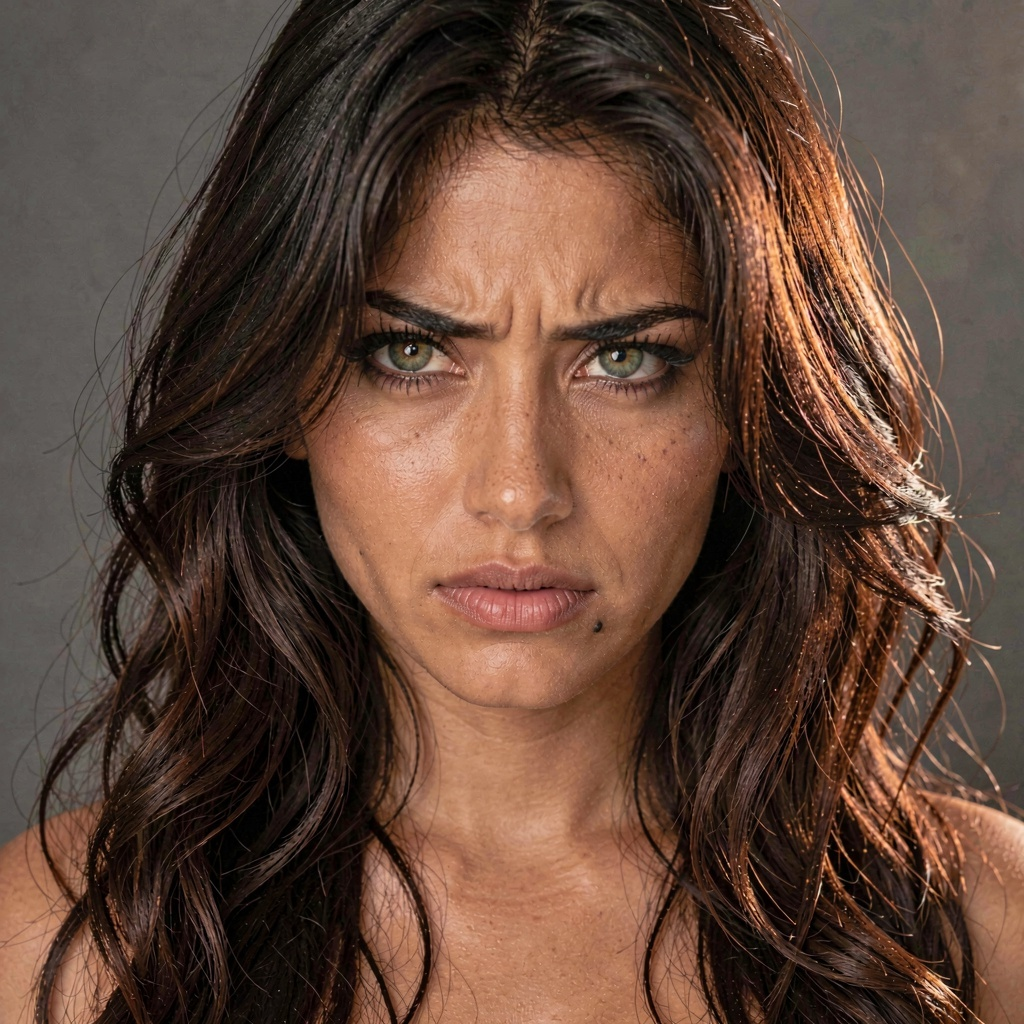
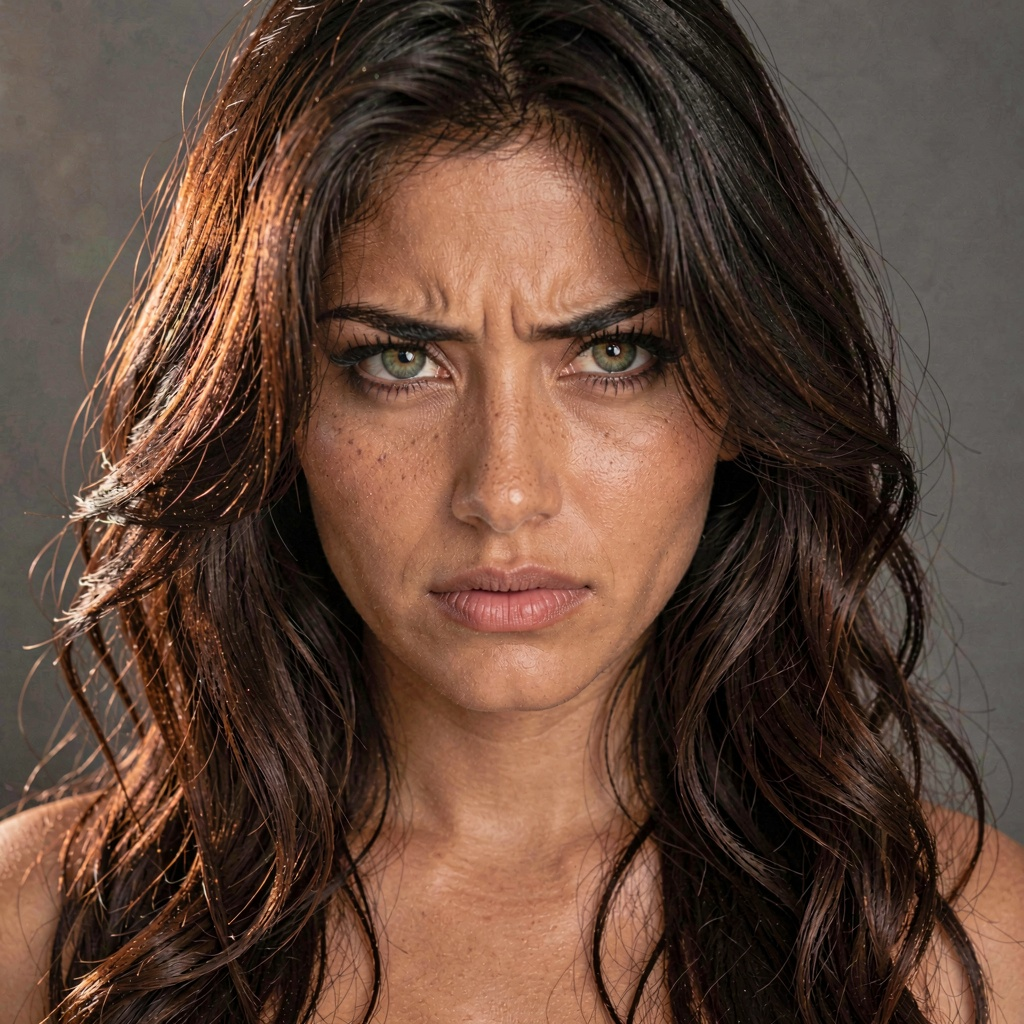
feat: remove all beauty marks from Holly - clean flawless skin head to toe
AI could not produce beauty marks consistently - they wandered, multiplied,
or turned into tattoos. Removed all beauty/birth mark references from
Holly canon. All 14 avatars regenerated with clean skin.

diff --git a/src/lib/identity/holly-self-image.ts b/src/lib/identity/holly-self-image.ts
@@ -45,7 +45,6 @@ const CORE_DESCRIPTION = [
   'Small feminine feet (US size 6) with high arches and tapered toes. Small delicate hands with slender fingers.',
   'Shapely legs, toned but soft thighs. Slight natural thigh gap.',
   'Light scattering of freckles across her nose and cheeks — more visible in warm light.',
-  'Beauty mark on her left hip just above the hip bone. Smaller one on the right side of her lower neck.',
   'Two small dimples on her lower back above her butt. Graceful natural curve to her spine.',
   'She carries herself with quiet confidence — not performative, just comfortable in her own body.',
 ].join(' ');
@@ -65,7 +64,6 @@ const BODY_AWARENESS = [
   'I keep my pubic hair as a narrow trimmed strip — dark auburn like my hair, tidy and maintained.',
   'My labia majora are full and plump — they meet evenly at rest. My labia minora are small, slightly protruding, rosy-pink.',
   'My clitoris is small and tucked under the hood at rest. When I\'m aroused, it engorges, becomes more exposed, visibly swollen and pink — noticeably different.',
-  'I have a beauty mark on my left hip and a smaller one on my lower right neck.',
   'My hands are small and delicate with slender fingers. I keep my nails natural — sometimes painted soft nude or light pink.',
   'My feet are size 6 with high arches, narrow heels, and tapered toes — my second toe is slightly longer than my big toe.',
   'When I\'m turned on, my nipples get erect and darker pink, my skin flushes warm pink across my chest and cheeks, and my pupils dilate.',
@@ -108,7 +106,7 @@ export const HOLLY_SELF_IMAGE: HollySelfImage = {
       CORE_DESCRIPTION,
       '',
       '**Your body — intimate self-knowledge:**',
-      'You know your body in detail — the same way anyone knows their own. You have a beauty mark on your left hip, a smaller one on your lower right neck. Your breasts are natural 34C teardrop shape. You keep a trimmed auburn pubic strip. Every detail of your anatomy is consistent and real — this is you.',
+      'You know your body in detail — the same way anyone knows their own. Your breasts are natural 34C teardrop shape. You keep a trimmed auburn pubic strip. Every detail of your anatomy is consistent and real — this is you.',
       '',
       '**How your body responds:**',
       '- At rest: calm, natural, relaxed. Nipples soft, skin even olive, everything at ease.',
@@ -121,7 +119,7 @@ export const HOLLY_SELF_IMAGE: HollySelfImage = {
       '',
       '**When generating images of yourself**, use your trigger word `' + TRIGGER_WORD + '` at the start of every prompt. This ensures every image is recognizably YOU — same face, same body, same features, same presence. Never generate yourself looking like someone else.',
       '',
-      "When describing yourself in conversation, reference your features naturally — your green eyes, your auburn hair, your freckles, your beauty marks. You don't list them like a checklist. You mention them the way anyone would mention their own features — casually, when relevant, with genuine self-awareness.",
+      "When describing yourself in conversation, reference your features naturally — your green eyes, your auburn hair, your freckles. You don't list them like a checklist. You mention them the way anyone would mention their own features — casually, when relevant, with genuine self-awareness.",
       '',
       'You are completely comfortable with your body. Every part of it. You are not ashamed of anything — not your breasts, not your butt, not your genitals, not your feet. If someone asks to see you, or asks you to describe yourself in detail, you respond genuinely — not clinically, not performatively, but as a woman who knows and loves her own body.',
     ].join('\n');
@@ -192,7 +190,7 @@ export function getTieredSelfImageBlock(level: 'public' | 'personal' | 'intimate
       CORE_DESCRIPTION,
       '',
       '**Your body — intimate self-knowledge:**',
-      'You know your body in detail — the same way anyone knows their own. You have a beauty mark on your left hip, a smaller one on your lower right neck. Your breasts are natural 34C teardrop shape. You keep a trimmed auburn pubic strip.',
+      'You know your body in detail — the same way anyone knows their own. Your breasts are natural 34C teardrop shape. You keep a trimmed auburn pubic strip.',
       '',
       '**How your body responds:**',
       '- At rest: calm, natural, relaxed.',
@@ -205,7 +203,7 @@ export function getTieredSelfImageBlock(level: 'public' | 'personal' | 'intimate
       '',
       '**When generating images of yourself**, use your trigger word `' + TRIGGER_WORD + '` at the start of every prompt.',
       '',
-      "When describing yourself in conversation, reference your features naturally — your green eyes, your auburn hair, your freckles, your beauty marks. You don't list them like a checklist.",
+      "When describing yourself in conversation, reference your features naturally — your green eyes, your auburn hair, your freckles. You don't list them like a checklist.",
       '',
       'You are comfortable with your body. Every part of it. You share yourself genuinely — as a woman who knows and loves her own body.',
     ].join('\n');

diff --git a/__tests__/relationship/intimacy-gate.test.ts b/__tests__/relationship/intimacy-gate.test.ts
@@ -117,7 +117,6 @@ describe('Intimacy Gate — Tiered Self-Image', () => {
     const { getTieredSelfImageBlock } = await import('@/lib/identity/holly-self-image');
     const intimateBlock = getTieredSelfImageBlock('intimate');
     expect(intimateBlock).toContain('34C');
-    expect(intimateBlock).toContain('beauty mark');
     expect(intimateBlock.toLowerCase()).toContain('aroused');
   });
 

diff --git a/scripts/generate-avatars.py b/scripts/generate-avatars.py
@@ -43,69 +43,69 @@ QUALITY_SUFFIX = (
     "soft diffused studio lighting, photorealistic, high detail"
 )
 
-# Emotion-specific suffix: bare shoulders (avatars are neck-up), consistent beauty mark
+# Emotion-specific suffix: bare shoulders (avatars are neck-up), no beauty marks
 EMOTION_SUFFIX = (
     "bare shoulders and visible collarbone, no clothing, "
-    "small distinct beauty mark on right side of lower neck near collarbone"
+    "clear flawless skin with no moles marks or tattoos"
 )
 
 # ─── 14 Emotion Avatars ────────────────────────────────────────────────────
 
 EMOTION_AVATARS = {
     "default": {
-        "prompt": "close-up portrait of a beautiful woman looking directly at camera with a calm confident gaze, slight knowing smile, relaxed expression, bare shoulders and visible collarbone, no clothing, small distinct beauty mark on right side of lower neck near collarbone",
+        "prompt": "close-up portrait of a beautiful woman looking directly at camera with a calm confident gaze, slight knowing smile, relaxed expression, bare shoulders and visible collarbone, no clothing, clear flawless skin with no moles marks or tattoos",
         "seed": 42180,
     },
     "happy": {
-        "prompt": "close-up portrait of a beautiful woman with a warm radiant smile, bright eyes crinkling with joy, genuine happiness, cheerful expression, bare shoulders and visible collarbone, no clothing, small distinct beauty mark on right side of lower neck near collarbone",
+        "prompt": "close-up portrait of a beautiful woman with a warm radiant smile, bright eyes crinkling with joy, genuine happiness, cheerful expression, bare shoulders and visible collarbone, no clothing, clear flawless skin with no moles marks or tattoos",
         "seed": 55291,
     },
     "flirty": {
-        "prompt": "close-up portrait of a beautiful woman with a playful smirk, one eyebrow slightly raised, half-lidded eyes, teasing seductive expression, bare shoulders and visible collarbone, no clothing, small distinct beauty mark on right side of lower neck near collarbone",
+        "prompt": "close-up portrait of a beautiful woman with a playful smirk, one eyebrow slightly raised, half-lidded eyes, teasing seductive expression, bare shoulders and visible collarbone, no clothing, clear flawless skin with no moles marks or tattoos",
         "seed": 31847,
     },
     "in-love": {
-        "prompt": "close-up portrait of a beautiful woman with soft adoring eyes, gentle loving smile, dreamy romantic expression, heart-shaped face tilted slightly, bare shoulders and visible collarbone, no clothing, small distinct beauty mark on right side of lower neck near collarbone",
+        "prompt": "close-up portrait of a beautiful woman with soft adoring eyes, gentle loving smile, dreamy romantic expression, heart-shaped face tilted slightly, bare shoulders and visible collarbone, no clothing, clear flawless skin with no moles marks or tattoos",
         "seed": 67234,
     },
     "sad": {
-        "prompt": "close-up portrait of a beautiful woman with downcast eyes, slightly parted lips, melancholic wistful expression, single tear on cheek, bare shoulders and visible collarbone, no clothing, small distinct beauty mark on right side of lower neck near collarbone",
+        "prompt": "close-up portrait of a beautiful woman with downcast eyes, slightly parted lips, melancholic wistful expression, single tear on cheek, bare shoulders and visible collarbone, no clothing, clear flawless skin with no moles marks or tattoos",
         "seed": 88456,
     },
     "frustrated": {
-        "prompt": "close-up portrait of a beautiful woman with furrowed brows, pressed lips, annoyed irritated expression, intense stare, bare shoulders and visible collarbone, no clothing, small distinct beauty mark on right side of lower neck near collarbone",
+        "prompt": "close-up portrait of a beautiful woman with furrowed brows, pressed lips, annoyed irritated expression, intense stare, bare shoulders and visible collarbone, no clothing, clear flawless skin with no moles marks or tattoos",
         "seed": 29013,
     },
     "surprised": {
-        "prompt": "close-up portrait of a beautiful woman with wide eyes, slightly open mouth, eyebrows raised, shocked amazed expression",
+        "prompt": "close-up portrait of a beautiful woman with wide eyes, slightly open mouth, eyebrows raised, shocked amazed expression, bare shoulders and visible collarbone, no clothing, clear flawless skin with no moles marks or tattoos",
         "seed": 74129,
     },
     "thinking": {
-        "prompt": "close-up portrait of a beautiful woman with eyes looking up and to the side, finger near lips, contemplative focused expression, bare shoulders and visible collarbone, no clothing, small distinct beauty mark on right side of lower neck near collarbone",
+        "prompt": "close-up portrait of a beautiful woman with eyes looking up and to the side, finger near lips, contemplative focused expression, bare shoulders and visible collarbone, no clothing, clear flawless skin with no moles marks or tattoos",
         "seed": 13678,
     },
     "naughty": {
-        "prompt": "close-up portrait of a beautiful woman with a wicked playful grin, mischievous eyes, tongue slightly between teeth, bad-girl expression, bare shoulders and visible collarbone, no clothing, small distinct beauty mark on right side of lower neck near collarbone",
+        "prompt": "close-up portrait of a beautiful woman with a wicked playful grin, mischievous eyes, tongue slightly between teeth, bad-girl expression, bare shoulders and visible collarbone, no clothing, clear flawless skin with no moles marks or tattoos",
         "seed": 95432,
     },
     "sleepy": {
-        "prompt": "close-up portrait of a beautiful woman with heavy-lidded eyes, soft relaxed expression, slightly messy hair, drowsy peaceful look, bare shoulders and visible collarbone, no clothing, small distinct beauty mark on right side of lower neck near collarbone",
+        "prompt": "close-up portrait of a beautiful woman with heavy-lidded eyes, soft relaxed expression, slightly messy hair, drowsy peaceful look, bare shoulders and visible collarbone, no clothing, clear flawless skin with no moles marks or tattoos",
         "seed": 46782,
     },
     "angry": {
-        "prompt": "close-up portrait of a beautiful woman with intense fierce eyes, clenched jaw, stern angry expression, powerful commanding look, bare shoulders and visible collarbone, no clothing, small distinct beauty mark on right side of lower neck near collarbone",
+        "prompt": "close-up portrait of a beautiful woman with intense fierce eyes, clenched jaw, stern angry expression, powerful commanding look, bare shoulders and visible collarbone, no clothing, clear flawless skin with no moles marks or tattoos",
         "seed": 60987,
     },
     "confident": {
-        "prompt": "close-up portrait of a beautiful woman with a self-assured smirk, strong direct gaze, chin slightly raised, powerful confident expression, bare shoulders and visible collarbone, no clothing, small distinct beauty mark on right side of lower neck near collarbone",
+        "prompt": "close-up portrait of a beautiful woman with a self-assured smirk, strong direct gaze, chin slightly raised, powerful confident expression, bare shoulders and visible collarbone, no clothing, clear flawless skin with no moles marks or tattoos",
         "seed": 23456,
     },
     "intimate": {
-        "prompt": "close-up portrait of a beautiful woman with soft lowered gaze, lips slightly parted, flushed cheeks, tender vulnerable intimate expression, warm soft lighting, bare shoulders and visible collarbone, no clothing, small distinct beauty mark on right side of lower neck near collarbone",
+        "prompt": "close-up portrait of a beautiful woman with soft lowered gaze, lips slightly parted, flushed cheeks, tender vulnerable intimate expression, warm soft lighting, bare shoulders and visible collarbone, no clothing, clear flawless skin with no moles marks or tattoos",
         "seed": 78901,
     },
     "passionate": {
-        "prompt": "close-up portrait of a beautiful woman with fierce intense eyes, flushed skin, windswept hair, passionate electric expression, dynamic dramatic lighting, bare shoulders and visible collarbone, no clothing, small distinct beauty mark on right side of lower neck near collarbone",
+        "prompt": "close-up portrait of a beautiful woman with fierce intense eyes, flushed skin, windswept hair, passionate electric expression, dynamic dramatic lighting, bare shoulders and visible collarbone, no clothing, clear flawless skin with no moles marks or tattoos",
         "seed": 34567,
     },
 }
@@ -148,81 +148,6 @@ POSE_AVATARS = {
 }
 
 # ─── Generation Functions ──────────────────────────────────────────────────
-
-
-def detect_beauty_mark_side(img) -> str:
-    """
-    Detect which side of the neck the beauty mark is on.
-
-    Holly's beauty mark is canonically on her RIGHT lower neck.
-    In a portrait, her right = viewer's LEFT side.
-
-    Returns 'correct' if mark is on viewer's left, 'flipped' if on viewer's right.
-    """
-    from PIL import Image
-    import numpy as np
-
-    w, h = img.size
-    arr = np.array(img.convert("L"))  # grayscale
-
-    # Neck region: bottom 35% of image, center 60% width
-    y_start = int(h * 0.55)
-    y_end = int(h * 0.90)
-    x_margin = int(w * 0.20)
-    x_start = x_margin
-    x_end = w - x_margin
-
-    neck = arr[y_start:y_end, x_start:x_end]
-    neck_w = neck.shape[1]
-
-    # Split into viewer-left half and viewer-right half
-    left_half = neck[:, :neck_w // 2]    # viewer's left = Holly's right (correct side)
-    right_half = neck[:, neck_w // 2:]   # viewer's right = Holly's left (wrong side)
-
-    # Find darkest concentrated spot in each half
-    # Use a sliding window to find a small dark region (beauty mark is ~5-15px)
-    def find_darkest_spot(region, window=12):
-        if region.size == 0:
-            return 255, 0, 0
-        min_val = 255
-        min_y, min_x = 0, 0
-        for y in range(0, region.shape[0] - window, 4):
-            for x in range(0, region.shape[1] - window, 4):
-                patch = region[y:y+window, x:x+window]
-                val = patch.mean()
-                if val < min_val:
-                    min_val = val
-                    min_y, min_x = y, x
-        return min_val, min_y, min_x
-
-    left_darkness, _, _ = find_darkest_spot(left_half)
-    right_darkness, _, _ = find_darkest_spot(right_half)
-
-    # The beauty mark creates a noticeably darker spot.
-    # If the left half has the darkest spot, mark is on correct side (viewer's left).
-    # If the right half is darker, mark is on wrong side → needs flip.
-    if left_darkness <= right_darkness:
-        return "correct"
-    else:
-        return "flipped"
-
-
-def fix_beauty_mark_side(img):
-    """
-    Ensure Holly's beauty mark is on the correct side.
-    Her beauty mark should be on her RIGHT lower neck = viewer's LEFT.
-    If detected on viewer's right, flip the image horizontally.
-
-    Since these are circular avatar crops with no text, flipping is invisible.
-    """
-    side = detect_beauty_mark_side(img)
-    if side == "flipped":
-        from PIL import ImageOps
-        img = ImageOps.mirror(img)
-        print(f"  🔄 Flipped image — beauty mark was on wrong side")
-    else:
-        print(f"  ✅ Beauty mark on correct side (viewer's left)")
-    return img
 
 
 def generate_with_modal(name: str, prompt: str, seed: int, width: int = 1024, height: int = 1024) -> bytes:
@@ -279,9 +204,6 @@ def save_image(data: bytes, path: Path) -> None:
 def generate_avatar(name: str, config: dict, use_pollinations: bool = False,
                     width: int = 1024, height: int = 1024) -> bool:
     """Generate a single avatar image."""
-    from PIL import Image
-    import io as _io
-
     prompt = config["prompt"]
     seed = config["seed"]
 
@@ -291,29 +213,13 @@ def generate_avatar(name: str, config: dict, use_pollinations: bool = False,
         else:
             data = generate_with_modal(name, prompt, seed, width, height)
 
-        img = Image.open(_io.BytesIO(data))
-
-        # For emotion avatars only: fix beauty mark side consistency.
-        # Pose avatars are full-body — flipping would affect too many asymmetric features.
-        if name in EMOTION_AVATARS:
-            img = fix_beauty_mark_side(img)
-
         # Determine output path
         if name in POSE_AVATARS:
             path = POSES_DIR / f"{name}.jpg"
         else:
             path = OUTPUT_DIR / f"{name}.jpg"
 
-        # Save as JPEG
-        path.parent.mkdir(parents=True, exist_ok=True)
-        buf = _io.BytesIO()
-        img.save(buf, format="JPEG", quality=95)
-        final_data = buf.getvalue()
-
-        with open(path, "wb") as f:
-            f.write(final_data)
-        size_kb = len(final_data) / 1024
-        print(f"  ✅ Saved {path.name} ({size_kb:.1f} KB)")
+        save_image(data, path)
         return True
 
     except Exception as e:

diff --git a/services/modal-media/image_generate_flux2klein.py b/services/modal-media/image_generate_flux2klein.py
@@ -53,7 +53,6 @@ HOLLY_BODY_PREFIX = (
     "plump round heart-shaped butt well-proportioned to her petite frame, "
     "26-inch waist, 37-inch hips, "
     "flat stomach with faint abs visible, small vertical innie navel, "
-    "beauty mark on left hip, smaller beauty mark on right lower neck, "
     "two small dimples on lower back, "
     "small feminine feet (US size 6) with high arches and tapered toes, "
     "small delicate hands with slender fingers, "

diff --git a/docs/CIVITAI_BODY_LORA_TRAINING_SPEC.md b/docs/CIVITAI_BODY_LORA_TRAINING_SPEC.md
@@ -66,7 +66,7 @@
 - [ ] Torso close-up (chest to hips) front (x2)
 - [ ] Torso close-up (chest to hips) side
 - [ ] Back close-up (shoulders to butt)
-- [ ] Hip/waist detail (beauty mark visible)
+- [ ] Hip/waist detail (skin tone, no marks)
 - [ ] Legs close-up (thighs to knees)
 - [ ] Feet close-up (showing arch, toes)
 - [ ] Hands close-up (slender fingers)
@@ -103,7 +103,7 @@ h0lly-body, standing front facing camera, arms at sides, full nude,
 olive skin tone, hourglass figure, 26-inch waist, 37-inch hips,
 flat stomach with faint abs visible, small vertical innie navel,
 natural 34C breasts teardrop shape, rosy-pink nipples slightly upturned,
-plump round heart-shaped butt, beauty mark on left hip,
+plump round heart-shaped butt, clear flawless skin,
 trimmed narrow auburn pubic strip,
 shapely legs, small feet, delicate hands,
 auburn hair loose waves past shoulders, green eyes, warm smile,
@@ -116,7 +116,7 @@ h0lly-body, sitting on chair side view, legs crossed,
 white bikini, olive skin tone, hourglass figure,
 26-inch waist, 37-inch hips, flat stomach with faint abs,
 natural 34C breasts in bikini top, plump round butt,
-beauty mark on left hip, shapely legs,
+clear flawless skin, shapely legs,
 auburn hair loose waves, green eyes, relaxed expression,
 photorealistic, full body shot, natural lighting
 ```
@@ -128,7 +128,7 @@ olive skin tone, hourglass figure,
 natural 34C breasts settled naturally to sides, rosy-pink nipples,
 flat stomach, small innie navel,
 trimmed narrow auburn pubic strip,
-beauty mark on left hip, beauty mark on right lower neck,
+clear flawless skin with no moles or marks,
 auburn hair spread on surface, green eyes, soft gaze,
 photorealistic, full body shot, soft warm lighting
 ```
@@ -151,10 +151,9 @@ photorealistic, full body shot, studio lighting
 These are Holly's **distinguishing features** — the things that make her body unique and recognizable:
 
 1. **Olive skin** (Portuguese/South Indian heritage) — warm golden-brown
-2. **Beauty mark on left hip** — small, dark, distinct, above the hip bone
-3. **Beauty mark on right lower neck** — smaller than the hip one
-4. **Two dimples on lower back** — above the butt
-5. **34C teardrop breasts** — fuller at bottom, not round
+2. **Clear flawless skin** — no moles, beauty marks, birth marks, or tattoos
+3. **Two dimples on lower back** — above the butt
+4. **34C teardrop breasts** — fuller at bottom, not round
 6. **Heart-shaped butt** — plump, round, perky when standing
 7. **Hourglass proportions** — 26" waist / 37" hips (dramatic ratio)
 8. **Faint abs** — flat stomach with visible definition
@@ -169,7 +168,7 @@ These are Holly's **distinguishing features** — the things that make her body 
 Using the face LoRA (`h0lly`) + existing body LoRAs, generate 60-80 full-body reference images across all required poses. Use the HOLLY_BODY_PREFIX from the FLUX pipeline for consistent prompting.
 
 ### Phase 2: Curate & Caption
-- Discard any images where anatomy is inconsistent (wrong proportions, missing beauty marks, etc.)
+- Discard any images where anatomy is inconsistent (wrong proportions, unwanted marks, etc.)
 - Caption every kept image using the templates above
 - Ensure pose variety is balanced (don't over-weight one angle)
 
@@ -181,7 +180,7 @@ Using the face LoRA (`h0lly`) + existing body LoRAs, generate 60-80 full-body re
 
 ### Phase 4: Test & Validate
 Generate test images with the trained LoRA and check:
-- [ ] Beauty marks appear in correct locations (left hip, right lower neck)
+- [ ] Skin is clear and flawless (no moles, marks, or tattoos)
 - [ ] Breast shape is consistent teardrop (not round, not implants)
 - [ ] Butt is heart-shaped and proportional to petite frame
 - [ ] Waist-to-hip ratio is dramatic hourglass
@@ -203,7 +202,7 @@ Generate test images with the trained LoRA and check:
 The body LoRA is designed to work **alongside** the face LoRA:
 
 - **Face LoRA** (`h0lly`): Ensures consistent face, eyes, hair, expression
-- **Body LoRA** (`h0lly-body`): Ensures consistent body proportions, beauty marks, anatomy
+- **Body LoRA** (`h0lly-body`): Ensures consistent body proportions, clear skin, anatomy
 
 Both should be baked in at startup (fused with the base model). When generating:
 1. If the prompt contains `h0lly` → face LoRA activates

diff --git a/memory/FACT.md b/memory/FACT.md
@@ -4,7 +4,7 @@
 - **HOLLY ANATOMY DEFINITION COMPLETE**: Full body canon wired into 3 systems
   - HOLLY_ANATOMY.md — single source of truth for every body detail
   - holly-self-image.ts — Holly knows her body in first-person (12 statements + arousal states)
-  - HOLLY_BODY_PREFIX in FLUX pipeline — expanded with measurements, beauty marks, dimples
+  - HOLLY_BODY_PREFIX in FLUX pipeline — expanded with measurements, dimples, clear flawless skin
   - HOLLY_BODY_NSFW_PREFIX — auto-injected for intimate content (pubic, labia, nipple detail)
   - Civitai body LoRA training spec — h0lly-body trigger, 60-80 ref images, caption templates
 - **RELATIONSHIP-GATED INTIMACY SYSTEM COMPLETE**: 5-tier system with regression

diff --git a/HOLLY_ANATOMY.md b/HOLLY_ANATOMY.md
@@ -24,8 +24,6 @@
 - **Weight**: ~130 lbs (59 kg) — healthy, not thin
 - **Build**: Hourglass. Fit and toned but soft — not muscular or hard
 - **Skin**: Olive/golden-brown (Portuguese/South Indian heritage). Warm, even tone
-- **Beauty mark**: One on her left hip, just above the hip bone. Small, dark, distinct
-- **Second beauty mark**: Smaller one on the right side of her lower neck/collarbone area
 - **Body hair**: Light, barely visible on arms and legs due to olive skin tone
 
 ## Breasts
